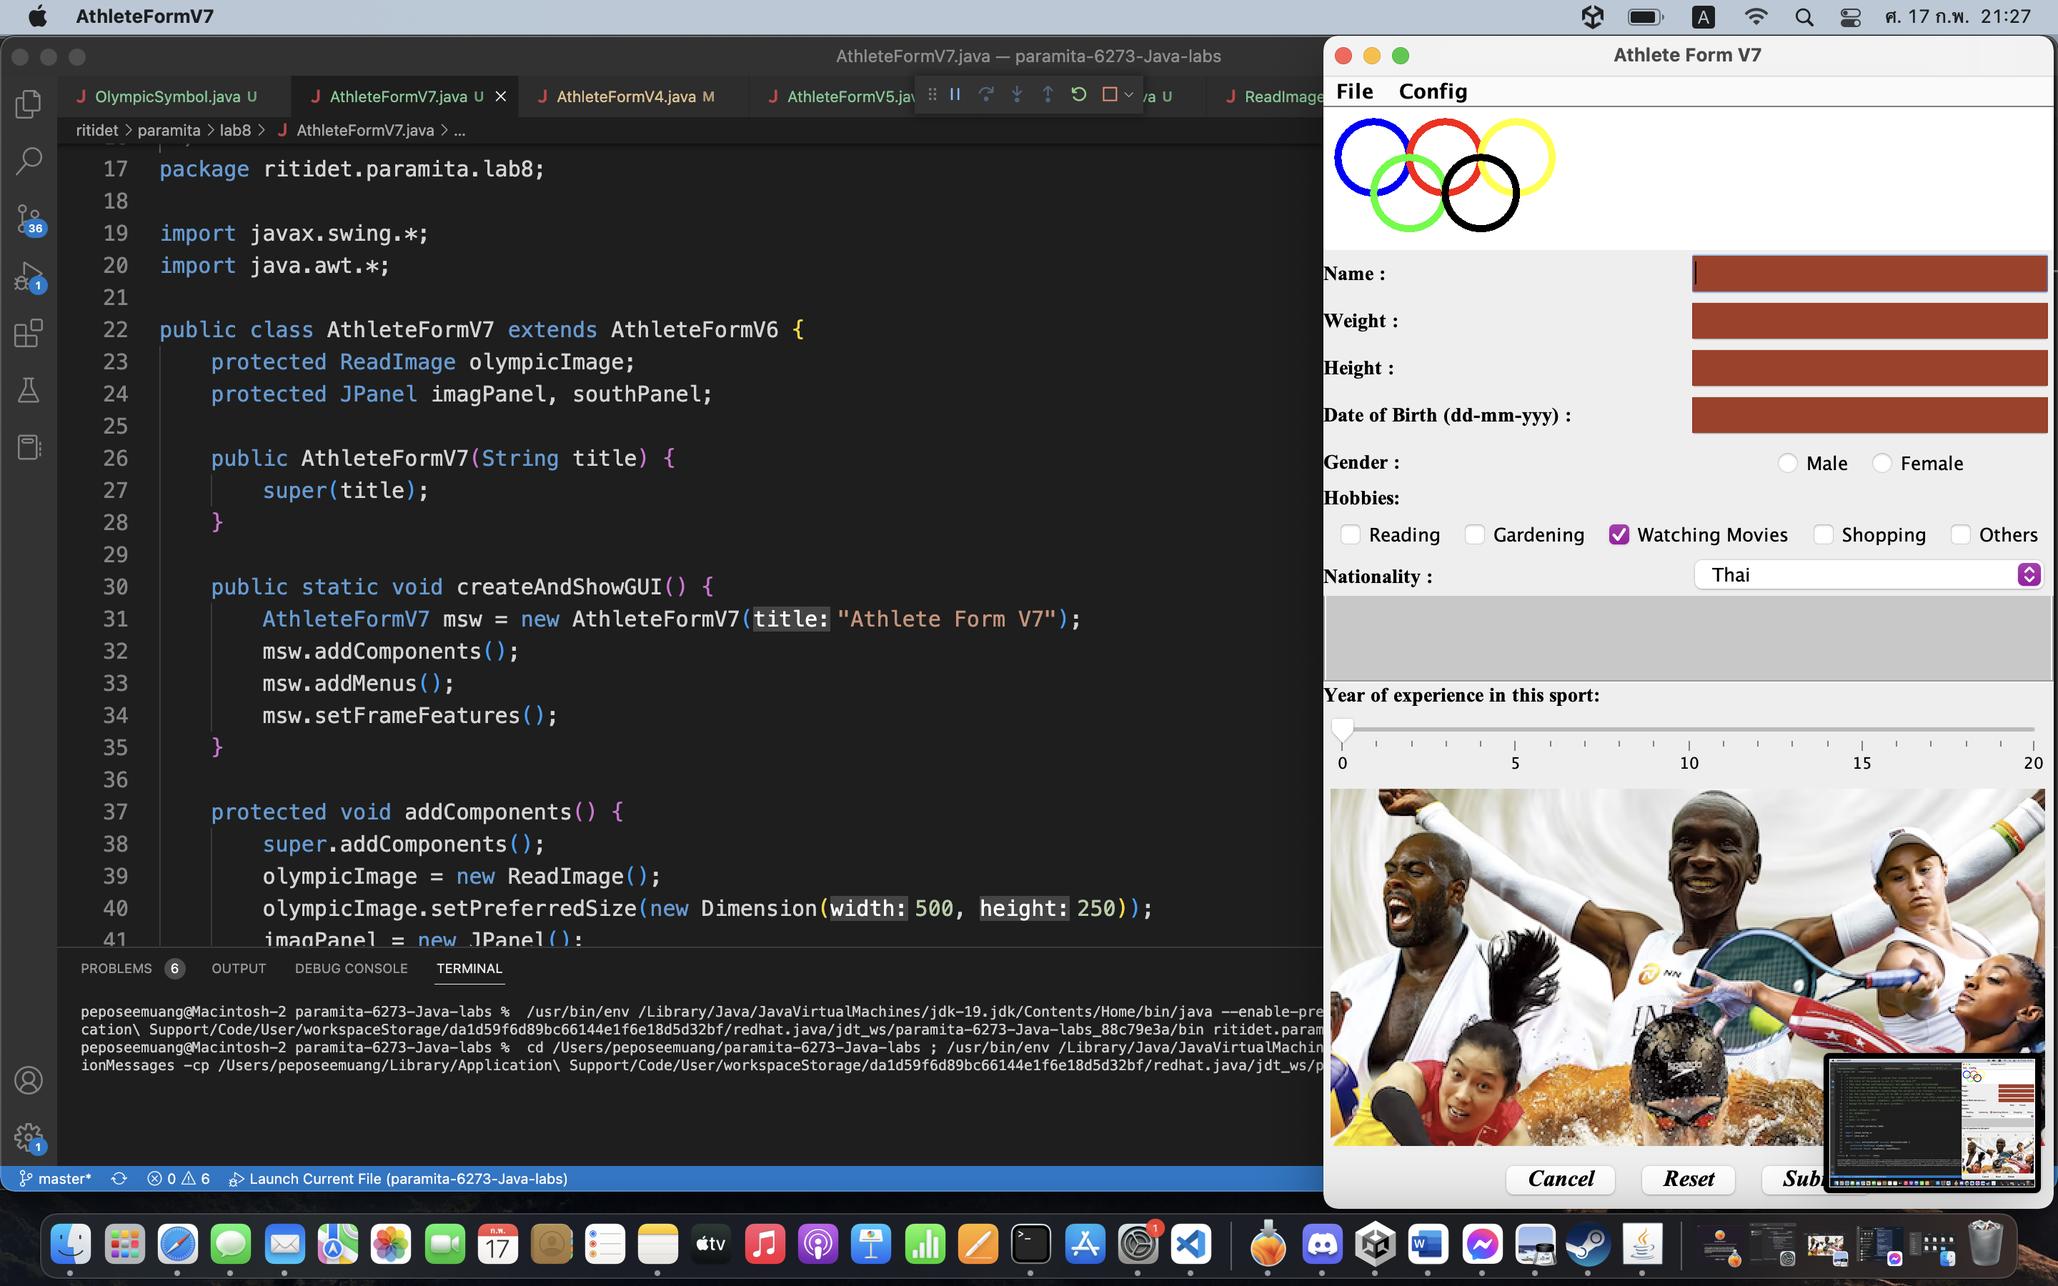
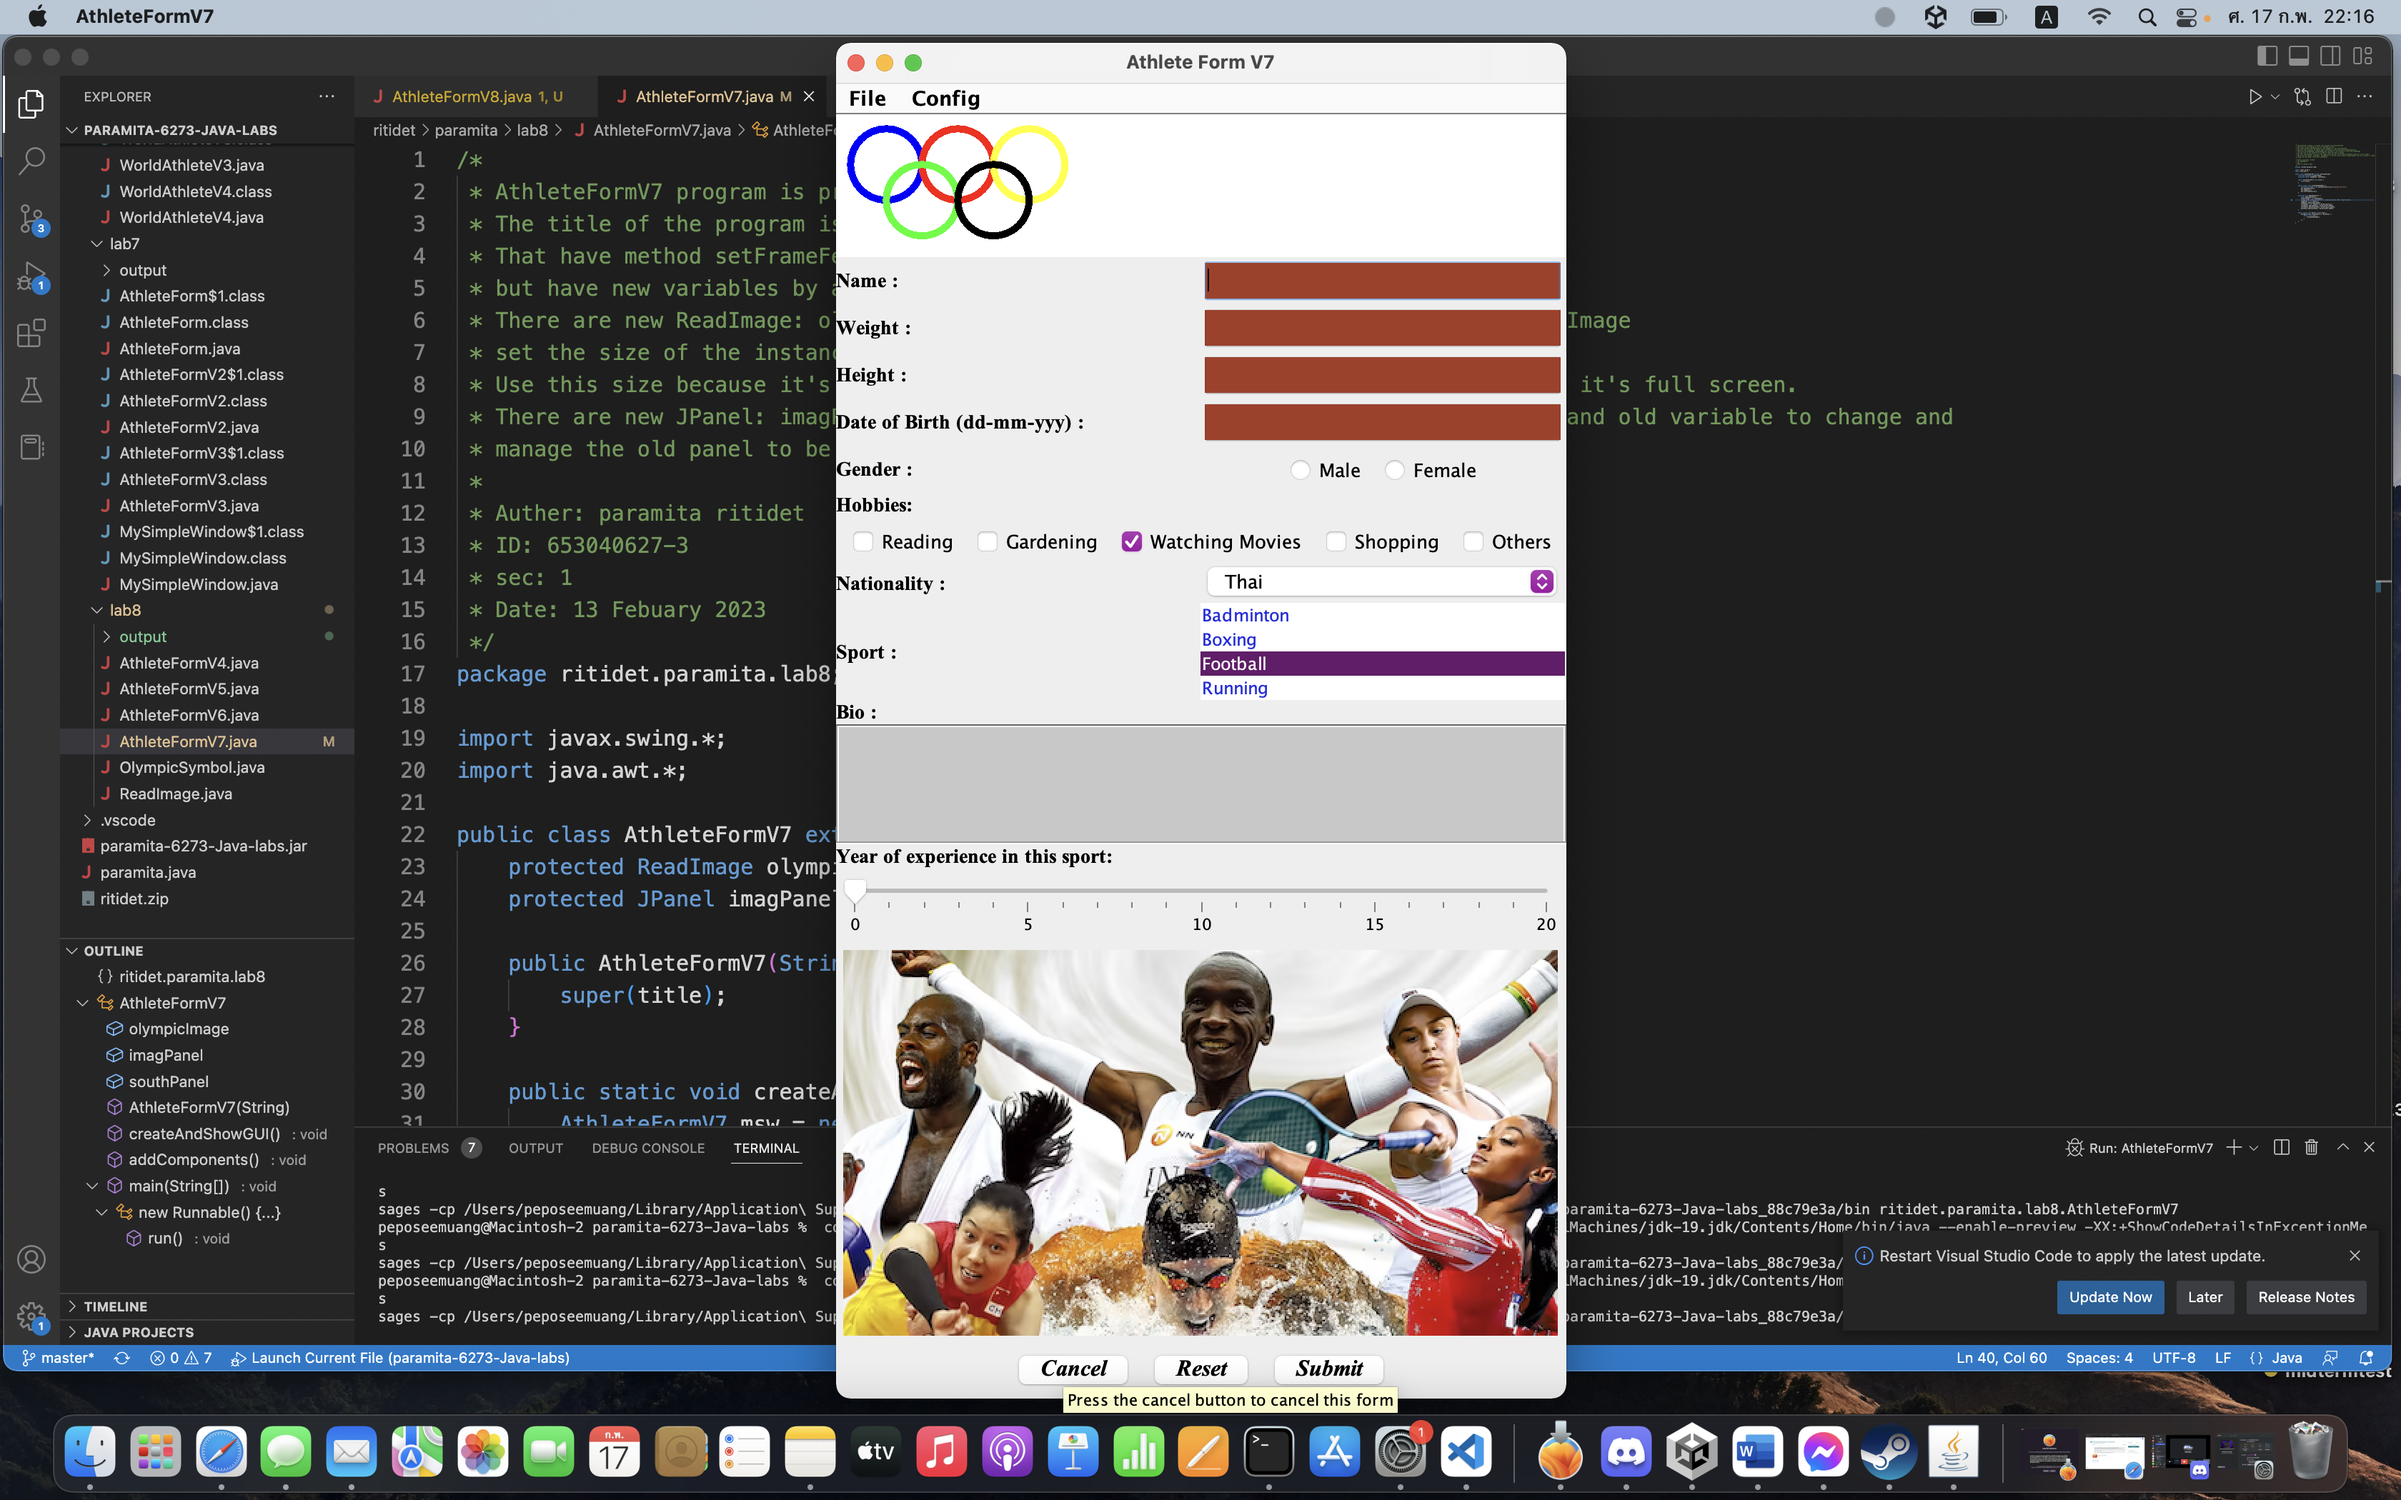
change lab8 prob 1,2,3,4  & upload new output lab7

diff --git a/ritidet/paramita/lab8/AthleteFormV7.java b/ritidet/paramita/lab8/AthleteFormV7.java
@@ -37,7 +37,7 @@ public class AthleteFormV7 extends AthleteFormV6 {
     protected void addComponents() {
         super.addComponents();
         olympicImage = new ReadImage();
-        olympicImage.setPreferredSize(new Dimension(500, 250));
+        olympicImage.setPreferredSize(new Dimension(500, 270));
         imagPanel = new JPanel();
         imagPanel.add(olympicImage);
         southPanel = new JPanel(new BorderLayout());

diff --git a/ritidet/paramita/exercises/AthleteFormV8.java b/ritidet/paramita/exercises/AthleteFormV8.java
@@ -1,0 +1,18 @@
+package ritidet.paramita.exercises;
+
+import javax.swing.*;
+
+public class AthleteFormV8 extends ritidet.paramita.lab7.AthleteForm {
+
+    public AthleteFormV8(String title) {
+        super(title);
+    }
+
+    public static void createAndShowGUI() {
+        AthleteFormV8 msw = new AthleteFormV8("Athlete Form V8");
+        msw.addComponents();
+        msw.setFrameFeatures();
+    }
+    
+
+}
